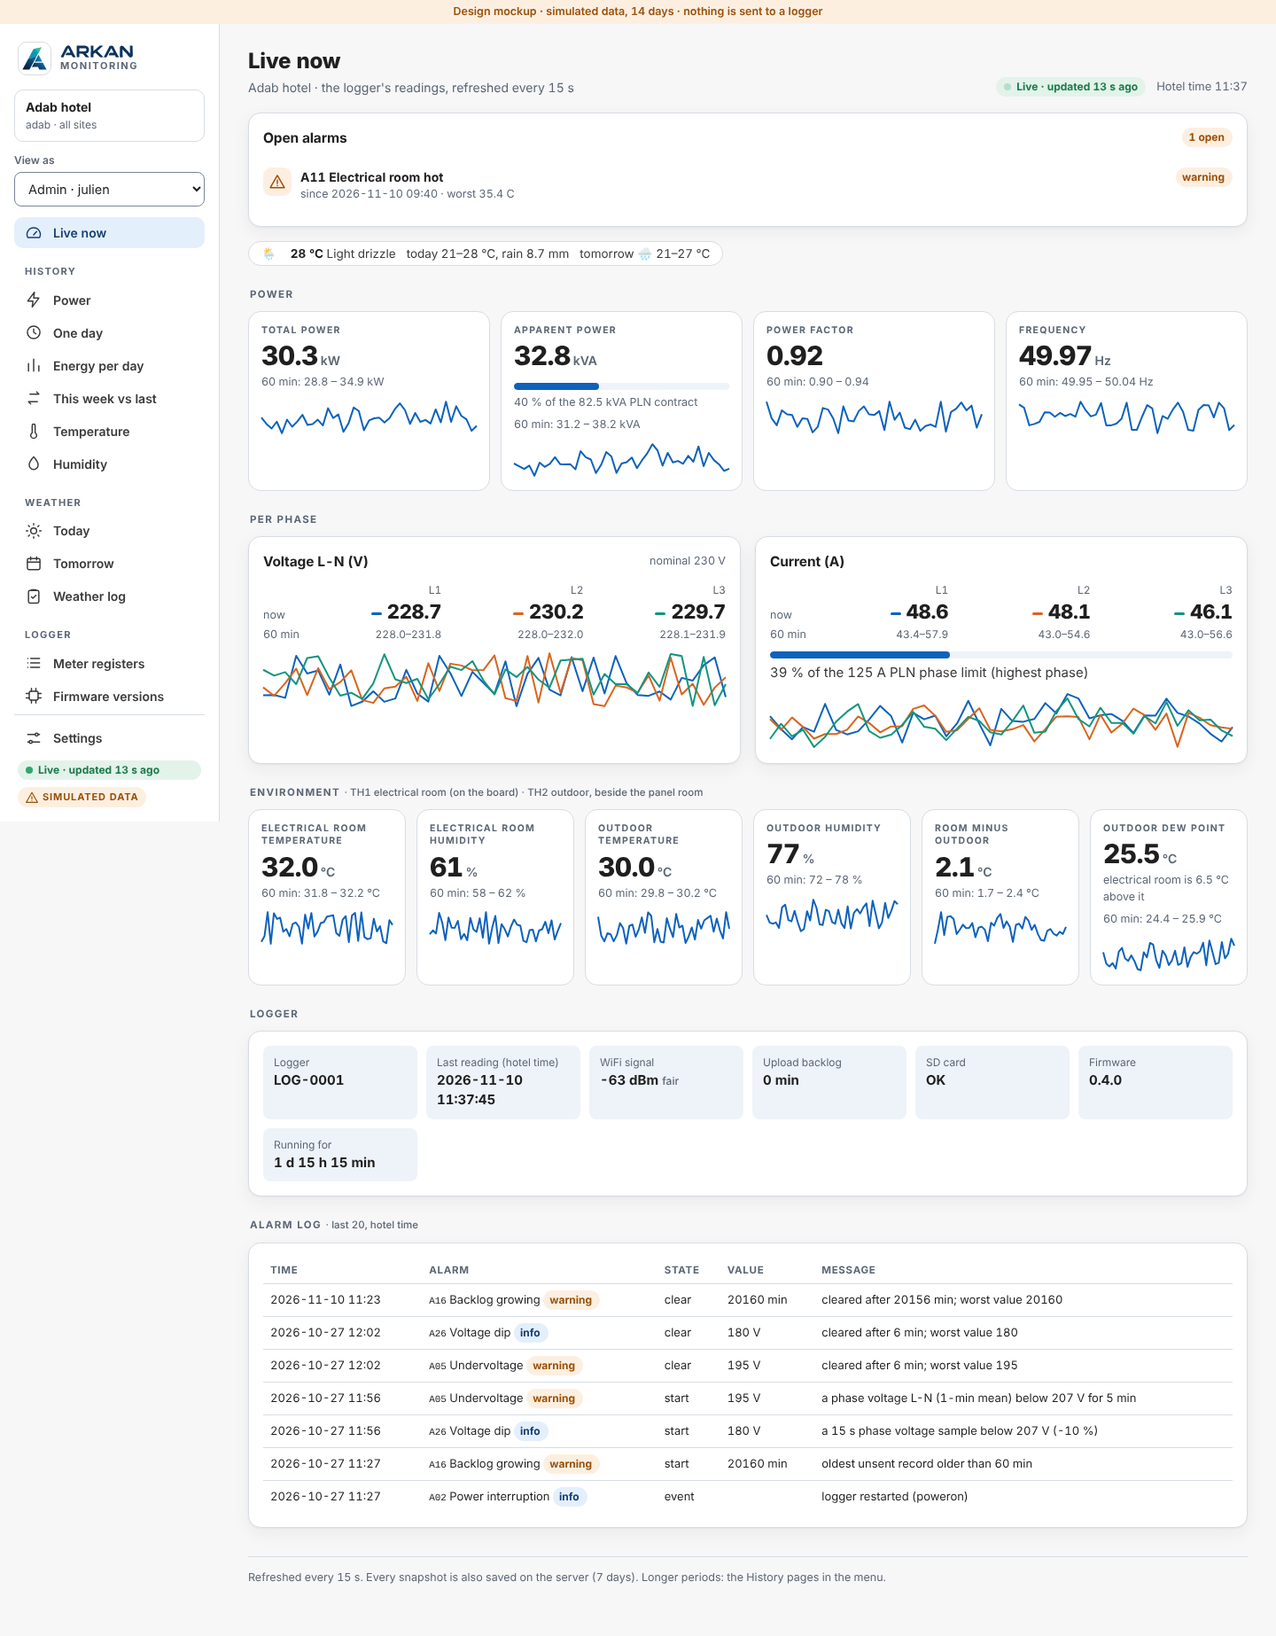
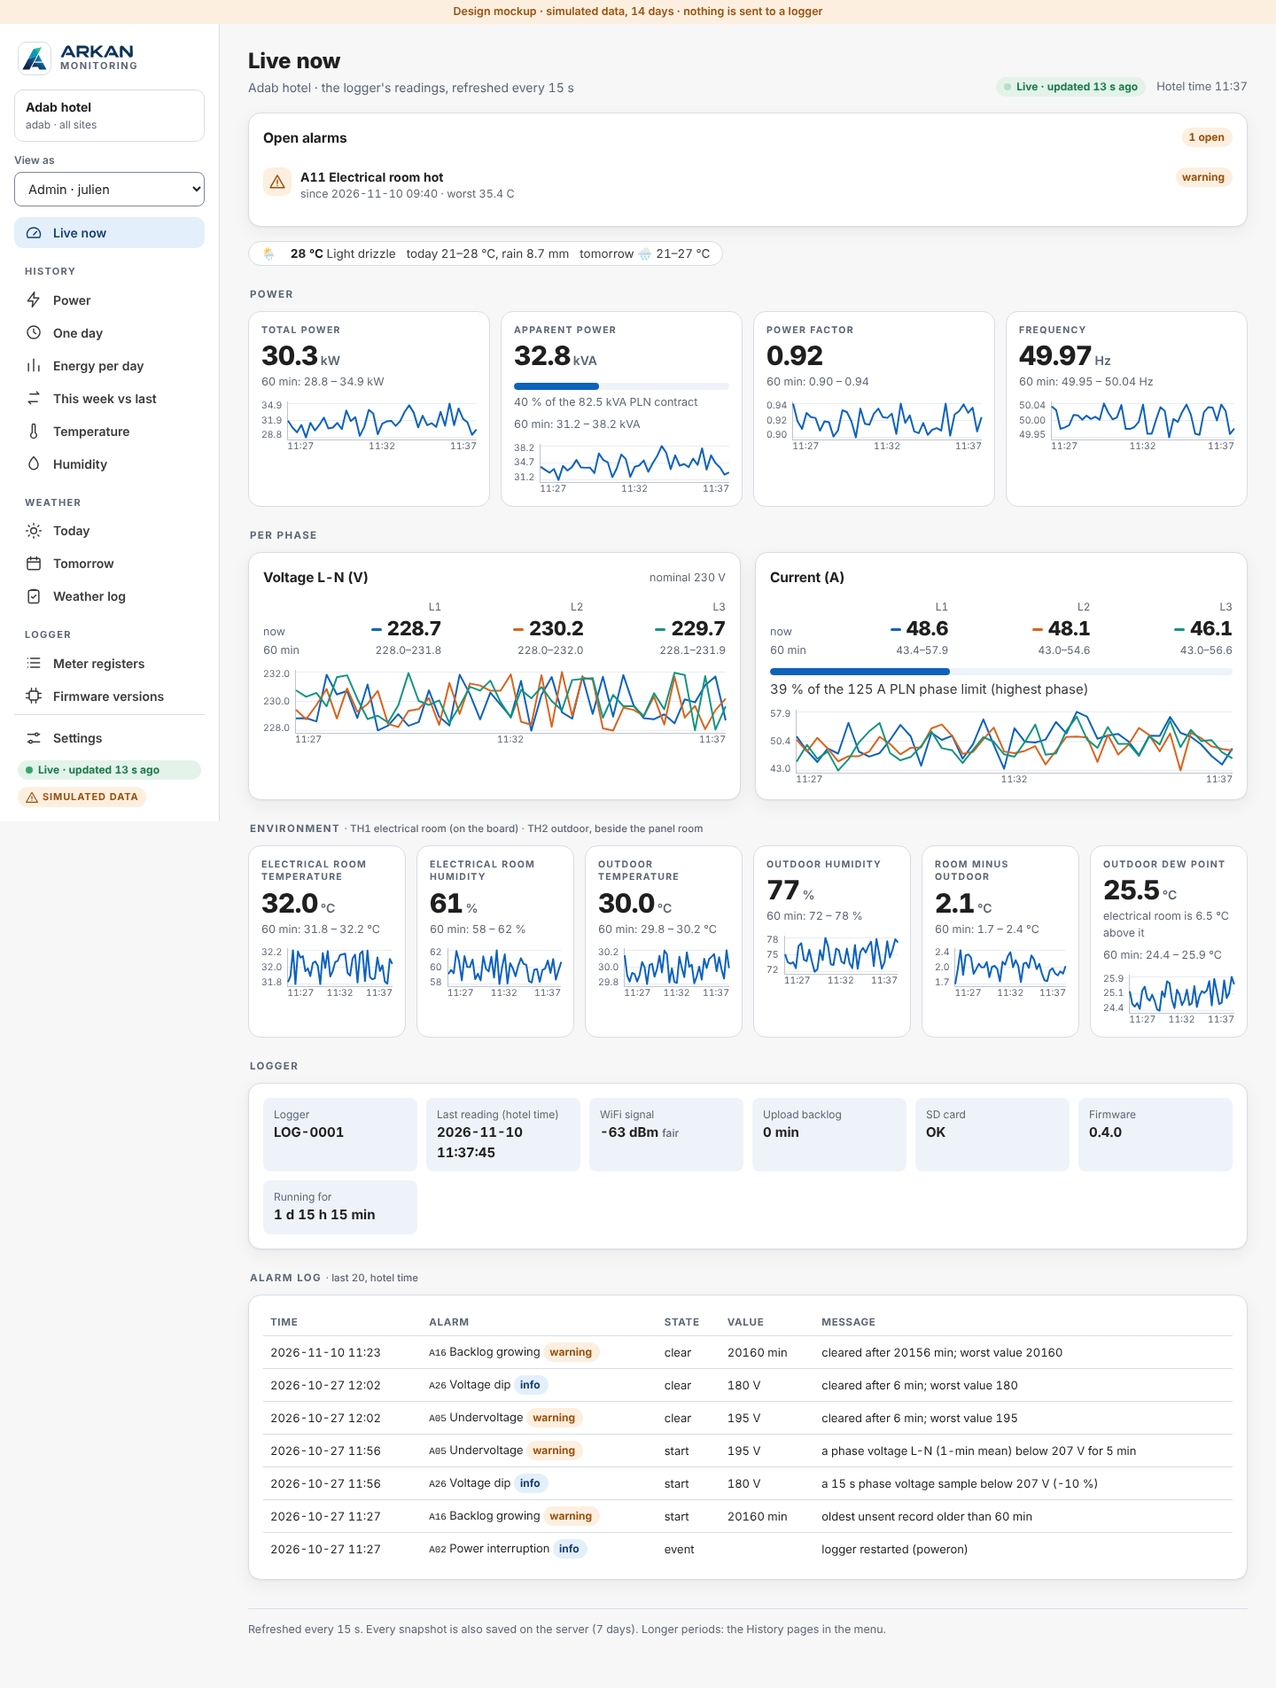
Mockup: axes and scales on every chart
Review comment: every chart shows its X and Y axis with a scale. The 60-minute
sparklines get a value scale and a time scale, the history charts get axis
lines and the name of the X axis, and the week comparison is a bar chart with
a kWh scale.

Claude-Session: https://claude.ai/code/session_01EskjDNhZYTSsc5KqC9Nz7o

diff --git a/docs/mockup/arkan/index.html b/docs/mockup/arkan/index.html
@@ -718,8 +718,15 @@ table.data th.cen,table.data td.cen{text-align:center}
 .live-pill.off i{background:var(--crit);animation:none}
 .live-pill.idle{color:var(--muted);background:var(--surface-2)}
 .live-pill.idle i{background:var(--muted);animation:none}
-.spark{display:block;width:100%;height:40px;margin-top:4px;overflow:visible}
-.spark.tall{height:64px;margin-top:10px}
+.spk{display:grid;grid-template-columns:auto minmax(0,1fr);gap:2px 6px;margin-top:6px}
+.spk.tall{margin-top:12px}
+.spy{display:flex;flex-direction:column;justify-content:space-between;text-align:right}
+.spx{grid-column:2;display:flex;justify-content:space-between}
+.spy,.spx{font-size:10.5px;line-height:1;color:var(--muted);white-space:nowrap}
+.spark{display:block;width:100%;height:44px;overflow:visible;border-left:1px solid var(--line-2);border-bottom:1px solid var(--line-2)}
+.spark.tall{height:72px}
+.spark .sg{stroke:var(--grid)}
+.chart .axl{stroke:var(--line-2);stroke-width:1}
 .spark path{fill:none;stroke-width:2;stroke-linejoin:round}
 .spark .xh{stroke:var(--control);stroke-dasharray:2 2}
 .phase{display:grid;grid-template-columns:auto 1fr 1fr 1fr;gap:2px 12px;align-items:baseline}
@@ -1230,10 +1237,13 @@ function spark(series, times, {tall = false, unitKey} = {}) {
     s.pts.forEach((v, i) => { if (v !== null) d += `${d && s.pts[i - 1] !== null ? 'L' : 'M'}${X(i).toFixed(2)},${Y(v).toFixed(2)}`; });
     return `<path d="${d}" style="stroke:${s.color}" vector-effect="non-scaling-stroke"/>`;
   }).join('');
-  const id = 'sp' + (++sparkId);
+  const id = 'sp' + (++sparkId), yk = unitKey || series[0].key, hm = i => esc(String(times[i] || '').slice(0, 5));
   SPARKS[id] = {series, times, unitKey};
-  return `<svg class="spark${tall ? ' tall' : ''}" id="${id}" viewBox="0 0 100 ${H}" preserveAspectRatio="none" role="img" aria-label="last 60 minutes">
-    ${paths}<line class="xh" y1="0" y2="${H}" vector-effect="non-scaling-stroke" visibility="hidden"/></svg>`;
+  const grid = [2, H / 2, H - 2].map(y => `<line class="sg" x1="0" x2="100" y1="${y}" y2="${y}" vector-effect="non-scaling-stroke"/>`).join('');
+  return `<div class="spk${tall ? ' tall' : ''}"><div class="spy" aria-hidden="true"><span>${fmt(yk, hi)}</span><span>${fmt(yk, (hi + lo) / 2)}</span><span>${fmt(yk, lo)}</span></div>
+    <svg class="spark${tall ? ' tall' : ''}" id="${id}" viewBox="0 0 100 ${H}" preserveAspectRatio="none" role="img" aria-label="last 60 minutes, ${fmt(yk, lo)} to ${fmt(yk, hi)} ${esc(unitOf(yk))}">
+    ${grid}${paths}<line class="xh" y1="0" y2="${H}" vector-effect="non-scaling-stroke" visibility="hidden"/></svg>
+    <div class="spx" aria-hidden="true"><span>${hm(0)}</span><span>${hm(Math.floor((n - 1) / 2))}</span><span>${hm(n - 1)}</span></div></div>`;
 }
 function showTip(ev, html) {
   const tip = el('tip'); tip.innerHTML = html; tip.style.display = 'block';
@@ -1428,7 +1438,10 @@ function nice(lo, hi, n = 5) {
   return t;
 }
 let CW = 900, CH = 320;
-const CM = {l: 50, r: 14, t: 10, b: 34};
+const CM = {l: 50, r: 14, t: 10, b: 48};
+// The two axis lines and the name of the x axis (the y axis carries its unit, turned, on the left)
+const axes = xName => `<line class="axl" x1="${CM.l}" x2="${CM.l}" y1="${CM.t}" y2="${CH - CM.b}"/><line class="axl" x1="${CM.l}" x2="${CW - CM.r}" y1="${CH - CM.b}" y2="${CH - CM.b}"/>` +
+  `<text class="ax" x="${(CM.l + CW - CM.r) / 2}" y="${CH - 4}" text-anchor="middle">${esc(xName)}</text>`;
 const sizeTo = box => { CW = Math.max(320, Math.round(box.clientWidth)); CH = CW < 600 ? 240 : 320; };
 
 // Line chart, one y axis; series = [{name, color, pts: [[ms, value], ...], width}]
@@ -1454,7 +1467,7 @@ function lineChart(box, series, {unit, yZero = false, gapMs = 2 * 36e5, digits =
   box.innerHTML = `${series.length > 1 ? `<div class="legend">${series.map(s => `<span><i style="background:${s.color}"></i>${esc(s.name)}</span>`).join('')}</div>` : ''}
     <svg viewBox="0 0 ${CW} ${CH}" role="img" aria-label="${esc(series.map(s => s.name).join(', '))}">
     ${g}<text class="ax" x="12" y="${(CH - CM.b + CM.t) / 2}" transform="rotate(-90 12 ${(CH - CM.b + CM.t) / 2})" text-anchor="middle">${esc(unit)}</text>
-    ${paths}<line class="xh" y1="${CM.t}" y2="${CH - CM.b}" visibility="hidden"/><g class="dots"></g>
+    ${axes(spanD > 1.5 ? 'Day (hotel time)' : 'Hour (hotel time)')}${paths}<line class="xh" y1="${CM.t}" y2="${CH - CM.b}" visibility="hidden"/><g class="dots"></g>
     <rect x="${CM.l}" y="${CM.t}" width="${CW - CM.l - CM.r}" height="${CH - CM.t - CM.b}" fill="transparent"/></svg>`;
   const svg = box.querySelector('svg'), xh = svg.querySelector('.xh'), dots = svg.querySelector('.dots');
   svg.addEventListener('mousemove', ev => {
@@ -1474,7 +1487,7 @@ function lineChart(box, series, {unit, yZero = false, gapMs = 2 * 36e5, digits =
 }
 
 // Bar chart, one bar per item: [{v, l1, l2, tip, light}]
-function barChart(box, bars, unit) {
+function barChart(box, bars, unit, {xName = 'Day', maxW = 1e9} = {}) {
   sizeTo(box);
   if (!bars.length) { box.innerHTML = '<div class="empty">No records for this period.</div>'; return; }
   const yt = nice(0, Math.max(...bars.map(b => b.v)) || 1), y1 = yt[yt.length - 1], bw = (CW - CM.l - CM.r) / bars.length;
@@ -1482,13 +1495,13 @@ function barChart(box, bars, unit) {
   let g = '', b = '';
   for (const v of yt) g += `<line class="grid" x1="${CM.l}" x2="${CW - CM.r}" y1="${Y(v)}" y2="${Y(v)}"/><text class="ax" x="${CM.l - 6}" y="${Y(v) + 4}" text-anchor="end">${v}</text>`;
   bars.forEach((d, i) => {
-    const x = CM.l + i * bw + 1, w = Math.max(2, bw - 2), y = Y(d.v), r = Math.max(0, Math.min(4, w / 2, CH - CM.b - y));
+    const w = Math.max(2, Math.min(bw - 2, maxW)), x = CM.l + i * bw + (bw - w) / 2, y = Y(d.v), r = Math.max(0, Math.min(4, w / 2, CH - CM.b - y));
     b += `<path d="M${x},${CH - CM.b}V${y + r}q0,${-r} ${r},${-r}h${w - 2 * r}q${r},0 ${r},${r}V${CH - CM.b}Z" style="fill:var(--s1)${d.light ? ';opacity:.45' : ''}"/>`;
     if (i % Math.ceil(26 / bw) === 0) b += `<text class="ax" x="${x + w / 2}" y="${CH - CM.b + 14}" text-anchor="middle">${esc(d.l1)}</text><text class="ax" x="${x + w / 2}" y="${CH - CM.b + 27}" text-anchor="middle">${esc(d.l2)}</text>`;
     b += `<rect data-i="${i}" x="${CM.l + i * bw}" y="${CM.t}" width="${bw}" height="${CH - CM.t - CM.b}" fill="transparent"/>`;
   });
-  box.innerHTML = `<svg viewBox="0 0 ${CW} ${CH + 6}" role="img" aria-label="${esc(unit)} per bar">${g}
-    <text class="ax" x="12" y="${CH / 2}" transform="rotate(-90 12 ${CH / 2})" text-anchor="middle">${esc(unit)}</text>${b}</svg>`;
+  box.innerHTML = `<svg viewBox="0 0 ${CW} ${CH}" role="img" aria-label="${esc(unit)} per bar">${g}
+    <text class="ax" x="12" y="${(CH - CM.b + CM.t) / 2}" transform="rotate(-90 12 ${(CH - CM.b + CM.t) / 2})" text-anchor="middle">${esc(unit)}</text>${axes(xName)}${b}</svg>`;
   const svg = box.querySelector('svg');
   svg.addEventListener('mousemove', ev => { const i = ev.target.dataset && ev.target.dataset.i; if (i === undefined) return hideTip(); showTip(ev, bars[i].tip); });
   svg.addEventListener('mouseleave', hideTip);
@@ -1572,14 +1585,14 @@ async function renderHistory() {
       : pct === null ? '' : Math.abs(pct) < 0.5 ? `<div class="verdict">About the same as last week (${pct >= 0 ? '+' : ''}${pct.toFixed(1)} %)</div>`
       : `<div class="verdict ${pct > 0 ? 'bad' : 'ok'}">${pct > 0 ? '▲' : '▼'} ${Math.abs(pct).toFixed(1)} % ${pct > 0 ? 'more' : 'less'} than last week</div>`;
     box.innerHTML = head('This week against last week', `Weeks start on Sunday 00:00. The complete hours of this week so far, against the same ${(el_ / 36e5).toFixed(0)} hours of last week.`) +
-      `<section class="card"><div class="cmp">
-        <div><div class="cv">${last.toFixed(0)} kWh</div><div class="cbar prev" style="height:${h(last)}px"></div><div><b class="ink">Last week</b><br><small>${fdate(lw0)} – ${fdate(lw0 + el_)} ${fhm(lw0 + el_)}</small></div></div>
-        <div><div class="cv">${cur.toFixed(0)} kWh</div><div class="cbar" style="height:${h(cur)}px"></div><div><b class="ink">This week so far</b><br><small>${fdate(w0)} – ${fdate(w0 + el_)} ${fhm(w0 + el_)}</small></div></div>
-       </div>${verdict}</section>` + sec('Day by day') +
+      `<section class="card"><div class="chart" id="ch"></div>${verdict}</section>` + sec('Day by day') +
       tableCard(`<tr><th>Day</th><th>Last week</th><th>This week</th><th>Change</th></tr>${perDay.map(r => {
          const ch = r.b === null || !r.a ? '' : ((r.b - r.a) / r.a * 100);
          return `<tr><td>${DAYS[r.i]}</td><td>${r.a ? r.a.toFixed(0) + ' kWh' : '–'}</td><td>${r.b === null ? '–' : r.b.toFixed(0) + ' kWh' + (w0 + (r.i + 1) * 864e5 > now ? ' so far' : '')}</td>
            <td>${ch === '' || w0 + (r.i + 1) * 864e5 > now ? '' : `<span class="${ch > 0.5 ? 'bad' : ch < -0.5 ? 'ok' : ''}">${ch >= 0 ? '+' : ''}${ch.toFixed(1)} %</span>`}</td></tr>`; }).join('')}`);
+    const rng = a => `${fdate(a)} – ${fdate(a + el_)} ${fhm(a + el_)}`;
+    barChart(el('ch'), [{v: last, light: true, l1: 'Last week: ' + last.toFixed(0) + ' kWh', l2: rng(lw0), tip: `<b>Last week</b>${last.toFixed(0)} kWh<br>${rng(lw0)}`},
+      {v: cur, l1: 'This week so far: ' + cur.toFixed(0) + ' kWh', l2: rng(w0), tip: `<b>This week so far</b>${cur.toFixed(0)} kWh<br>${rng(w0)}`}], 'kWh', {xName: 'Same hours of each week', maxW: 150});
   } else if (view === 'temperature' || view === 'humidity') {
     const j = await hourly(span), q = view === 'temperature' ? 't' : 'rh', unit = q === 't' ? '°C' : '% RH';
     const ids = [...new Set(j.hours.flatMap(r => Object.keys(r)).filter(k => /^TH\d+_/.test(k)).map(k => k.split('_')[0]))].sort();
@@ -1653,7 +1666,7 @@ function rainBars(box, rows, nowT) {
   const hr = nowT.slice(0, 13) + ':00';
   barChart(box, rows.map(r => ({v: r.precip_mm ?? 0, light: r.t < hr, l1: r.t.slice(11, 13), l2: r.precip_prob_pct !== null && r.precip_prob_pct !== undefined ? r.precip_prob_pct + '%' : '',
     tip: `<b>${r.t.slice(11)}–${String(+r.t.slice(11, 13) + 1).padStart(2, '0')}:00</b>${wxIcon(r.code, r.is_day)}${esc(r.condition)}<br>${f1(r.precip_mm, 1)} mm` +
-      (r.precip_prob_pct !== null && r.precip_prob_pct !== undefined ? `, chance ${r.precip_prob_pct} %` : '')})), 'mm');
+      (r.precip_prob_pct !== null && r.precip_prob_pct !== undefined ? `, chance ${r.precip_prob_pct} %` : '')})), 'mm', {xName: 'Hour (hotel time), chance of rain under it'});
 }
 async function wxStrip() {   // one line on "Live now"
   try {

diff --git a/docs/mockup/arkan/page.html b/docs/mockup/arkan/page.html
@@ -41,8 +41,15 @@
 .live-pill.off i{background:var(--crit);animation:none}
 .live-pill.idle{color:var(--muted);background:var(--surface-2)}
 .live-pill.idle i{background:var(--muted);animation:none}
-.spark{display:block;width:100%;height:40px;margin-top:4px;overflow:visible}
-.spark.tall{height:64px;margin-top:10px}
+.spk{display:grid;grid-template-columns:auto minmax(0,1fr);gap:2px 6px;margin-top:6px}
+.spk.tall{margin-top:12px}
+.spy{display:flex;flex-direction:column;justify-content:space-between;text-align:right}
+.spx{grid-column:2;display:flex;justify-content:space-between}
+.spy,.spx{font-size:10.5px;line-height:1;color:var(--muted);white-space:nowrap}
+.spark{display:block;width:100%;height:44px;overflow:visible;border-left:1px solid var(--line-2);border-bottom:1px solid var(--line-2)}
+.spark.tall{height:72px}
+.spark .sg{stroke:var(--grid)}
+.chart .axl{stroke:var(--line-2);stroke-width:1}
 .spark path{fill:none;stroke-width:2;stroke-linejoin:round}
 .spark .xh{stroke:var(--control);stroke-dasharray:2 2}
 .phase{display:grid;grid-template-columns:auto 1fr 1fr 1fr;gap:2px 12px;align-items:baseline}
@@ -335,10 +342,13 @@ function spark(series, times, {tall = false, unitKey} = {}) {
     s.pts.forEach((v, i) => { if (v !== null) d += `${d && s.pts[i - 1] !== null ? 'L' : 'M'}${X(i).toFixed(2)},${Y(v).toFixed(2)}`; });
     return `<path d="${d}" style="stroke:${s.color}" vector-effect="non-scaling-stroke"/>`;
   }).join('');
-  const id = 'sp' + (++sparkId);
+  const id = 'sp' + (++sparkId), yk = unitKey || series[0].key, hm = i => esc(String(times[i] || '').slice(0, 5));
   SPARKS[id] = {series, times, unitKey};
-  return `<svg class="spark${tall ? ' tall' : ''}" id="${id}" viewBox="0 0 100 ${H}" preserveAspectRatio="none" role="img" aria-label="last 60 minutes">
-    ${paths}<line class="xh" y1="0" y2="${H}" vector-effect="non-scaling-stroke" visibility="hidden"/></svg>`;
+  const grid = [2, H / 2, H - 2].map(y => `<line class="sg" x1="0" x2="100" y1="${y}" y2="${y}" vector-effect="non-scaling-stroke"/>`).join('');
+  return `<div class="spk${tall ? ' tall' : ''}"><div class="spy" aria-hidden="true"><span>${fmt(yk, hi)}</span><span>${fmt(yk, (hi + lo) / 2)}</span><span>${fmt(yk, lo)}</span></div>
+    <svg class="spark${tall ? ' tall' : ''}" id="${id}" viewBox="0 0 100 ${H}" preserveAspectRatio="none" role="img" aria-label="last 60 minutes, ${fmt(yk, lo)} to ${fmt(yk, hi)} ${esc(unitOf(yk))}">
+    ${grid}${paths}<line class="xh" y1="0" y2="${H}" vector-effect="non-scaling-stroke" visibility="hidden"/></svg>
+    <div class="spx" aria-hidden="true"><span>${hm(0)}</span><span>${hm(Math.floor((n - 1) / 2))}</span><span>${hm(n - 1)}</span></div></div>`;
 }
 function showTip(ev, html) {
   const tip = el('tip'); tip.innerHTML = html; tip.style.display = 'block';
@@ -533,7 +543,10 @@ function nice(lo, hi, n = 5) {
   return t;
 }
 let CW = 900, CH = 320;
-const CM = {l: 50, r: 14, t: 10, b: 34};
+const CM = {l: 50, r: 14, t: 10, b: 48};
+// The two axis lines and the name of the x axis (the y axis carries its unit, turned, on the left)
+const axes = xName => `<line class="axl" x1="${CM.l}" x2="${CM.l}" y1="${CM.t}" y2="${CH - CM.b}"/><line class="axl" x1="${CM.l}" x2="${CW - CM.r}" y1="${CH - CM.b}" y2="${CH - CM.b}"/>` +
+  `<text class="ax" x="${(CM.l + CW - CM.r) / 2}" y="${CH - 4}" text-anchor="middle">${esc(xName)}</text>`;
 const sizeTo = box => { CW = Math.max(320, Math.round(box.clientWidth)); CH = CW < 600 ? 240 : 320; };
 
 // Line chart, one y axis; series = [{name, color, pts: [[ms, value], ...], width}]
@@ -559,7 +572,7 @@ function lineChart(box, series, {unit, yZero = false, gapMs = 2 * 36e5, digits =
   box.innerHTML = `${series.length > 1 ? `<div class="legend">${series.map(s => `<span><i style="background:${s.color}"></i>${esc(s.name)}</span>`).join('')}</div>` : ''}
     <svg viewBox="0 0 ${CW} ${CH}" role="img" aria-label="${esc(series.map(s => s.name).join(', '))}">
     ${g}<text class="ax" x="12" y="${(CH - CM.b + CM.t) / 2}" transform="rotate(-90 12 ${(CH - CM.b + CM.t) / 2})" text-anchor="middle">${esc(unit)}</text>
-    ${paths}<line class="xh" y1="${CM.t}" y2="${CH - CM.b}" visibility="hidden"/><g class="dots"></g>
+    ${axes(spanD > 1.5 ? 'Day (hotel time)' : 'Hour (hotel time)')}${paths}<line class="xh" y1="${CM.t}" y2="${CH - CM.b}" visibility="hidden"/><g class="dots"></g>
     <rect x="${CM.l}" y="${CM.t}" width="${CW - CM.l - CM.r}" height="${CH - CM.t - CM.b}" fill="transparent"/></svg>`;
   const svg = box.querySelector('svg'), xh = svg.querySelector('.xh'), dots = svg.querySelector('.dots');
   svg.addEventListener('mousemove', ev => {
@@ -579,7 +592,7 @@ function lineChart(box, series, {unit, yZero = false, gapMs = 2 * 36e5, digits =
 }
 
 // Bar chart, one bar per item: [{v, l1, l2, tip, light}]
-function barChart(box, bars, unit) {
+function barChart(box, bars, unit, {xName = 'Day', maxW = 1e9} = {}) {
   sizeTo(box);
   if (!bars.length) { box.innerHTML = '<div class="empty">No records for this period.</div>'; return; }
   const yt = nice(0, Math.max(...bars.map(b => b.v)) || 1), y1 = yt[yt.length - 1], bw = (CW - CM.l - CM.r) / bars.length;
@@ -587,13 +600,13 @@ function barChart(box, bars, unit) {
   let g = '', b = '';
   for (const v of yt) g += `<line class="grid" x1="${CM.l}" x2="${CW - CM.r}" y1="${Y(v)}" y2="${Y(v)}"/><text class="ax" x="${CM.l - 6}" y="${Y(v) + 4}" text-anchor="end">${v}</text>`;
   bars.forEach((d, i) => {
-    const x = CM.l + i * bw + 1, w = Math.max(2, bw - 2), y = Y(d.v), r = Math.max(0, Math.min(4, w / 2, CH - CM.b - y));
+    const w = Math.max(2, Math.min(bw - 2, maxW)), x = CM.l + i * bw + (bw - w) / 2, y = Y(d.v), r = Math.max(0, Math.min(4, w / 2, CH - CM.b - y));
     b += `<path d="M${x},${CH - CM.b}V${y + r}q0,${-r} ${r},${-r}h${w - 2 * r}q${r},0 ${r},${r}V${CH - CM.b}Z" style="fill:var(--s1)${d.light ? ';opacity:.45' : ''}"/>`;
     if (i % Math.ceil(26 / bw) === 0) b += `<text class="ax" x="${x + w / 2}" y="${CH - CM.b + 14}" text-anchor="middle">${esc(d.l1)}</text><text class="ax" x="${x + w / 2}" y="${CH - CM.b + 27}" text-anchor="middle">${esc(d.l2)}</text>`;
     b += `<rect data-i="${i}" x="${CM.l + i * bw}" y="${CM.t}" width="${bw}" height="${CH - CM.t - CM.b}" fill="transparent"/>`;
   });
-  box.innerHTML = `<svg viewBox="0 0 ${CW} ${CH + 6}" role="img" aria-label="${esc(unit)} per bar">${g}
-    <text class="ax" x="12" y="${CH / 2}" transform="rotate(-90 12 ${CH / 2})" text-anchor="middle">${esc(unit)}</text>${b}</svg>`;
+  box.innerHTML = `<svg viewBox="0 0 ${CW} ${CH}" role="img" aria-label="${esc(unit)} per bar">${g}
+    <text class="ax" x="12" y="${(CH - CM.b + CM.t) / 2}" transform="rotate(-90 12 ${(CH - CM.b + CM.t) / 2})" text-anchor="middle">${esc(unit)}</text>${axes(xName)}${b}</svg>`;
   const svg = box.querySelector('svg');
   svg.addEventListener('mousemove', ev => { const i = ev.target.dataset && ev.target.dataset.i; if (i === undefined) return hideTip(); showTip(ev, bars[i].tip); });
   svg.addEventListener('mouseleave', hideTip);
@@ -677,14 +690,14 @@ async function renderHistory() {
       : pct === null ? '' : Math.abs(pct) < 0.5 ? `<div class="verdict">About the same as last week (${pct >= 0 ? '+' : ''}${pct.toFixed(1)} %)</div>`
       : `<div class="verdict ${pct > 0 ? 'bad' : 'ok'}">${pct > 0 ? '▲' : '▼'} ${Math.abs(pct).toFixed(1)} % ${pct > 0 ? 'more' : 'less'} than last week</div>`;
     box.innerHTML = head('This week against last week', `Weeks start on Sunday 00:00. The complete hours of this week so far, against the same ${(el_ / 36e5).toFixed(0)} hours of last week.`) +
-      `<section class="card"><div class="cmp">
-        <div><div class="cv">${last.toFixed(0)} kWh</div><div class="cbar prev" style="height:${h(last)}px"></div><div><b class="ink">Last week</b><br><small>${fdate(lw0)} – ${fdate(lw0 + el_)} ${fhm(lw0 + el_)}</small></div></div>
-        <div><div class="cv">${cur.toFixed(0)} kWh</div><div class="cbar" style="height:${h(cur)}px"></div><div><b class="ink">This week so far</b><br><small>${fdate(w0)} – ${fdate(w0 + el_)} ${fhm(w0 + el_)}</small></div></div>
-       </div>${verdict}</section>` + sec('Day by day') +
+      `<section class="card"><div class="chart" id="ch"></div>${verdict}</section>` + sec('Day by day') +
       tableCard(`<tr><th>Day</th><th>Last week</th><th>This week</th><th>Change</th></tr>${perDay.map(r => {
          const ch = r.b === null || !r.a ? '' : ((r.b - r.a) / r.a * 100);
          return `<tr><td>${DAYS[r.i]}</td><td>${r.a ? r.a.toFixed(0) + ' kWh' : '–'}</td><td>${r.b === null ? '–' : r.b.toFixed(0) + ' kWh' + (w0 + (r.i + 1) * 864e5 > now ? ' so far' : '')}</td>
            <td>${ch === '' || w0 + (r.i + 1) * 864e5 > now ? '' : `<span class="${ch > 0.5 ? 'bad' : ch < -0.5 ? 'ok' : ''}">${ch >= 0 ? '+' : ''}${ch.toFixed(1)} %</span>`}</td></tr>`; }).join('')}`);
+    const rng = a => `${fdate(a)} – ${fdate(a + el_)} ${fhm(a + el_)}`;
+    barChart(el('ch'), [{v: last, light: true, l1: 'Last week: ' + last.toFixed(0) + ' kWh', l2: rng(lw0), tip: `<b>Last week</b>${last.toFixed(0)} kWh<br>${rng(lw0)}`},
+      {v: cur, l1: 'This week so far: ' + cur.toFixed(0) + ' kWh', l2: rng(w0), tip: `<b>This week so far</b>${cur.toFixed(0)} kWh<br>${rng(w0)}`}], 'kWh', {xName: 'Same hours of each week', maxW: 150});
   } else if (view === 'temperature' || view === 'humidity') {
     const j = await hourly(span), q = view === 'temperature' ? 't' : 'rh', unit = q === 't' ? '°C' : '% RH';
     const ids = [...new Set(j.hours.flatMap(r => Object.keys(r)).filter(k => /^TH\d+_/.test(k)).map(k => k.split('_')[0]))].sort();
@@ -758,7 +771,7 @@ function rainBars(box, rows, nowT) {
   const hr = nowT.slice(0, 13) + ':00';
   barChart(box, rows.map(r => ({v: r.precip_mm ?? 0, light: r.t < hr, l1: r.t.slice(11, 13), l2: r.precip_prob_pct !== null && r.precip_prob_pct !== undefined ? r.precip_prob_pct + '%' : '',
     tip: `<b>${r.t.slice(11)}–${String(+r.t.slice(11, 13) + 1).padStart(2, '0')}:00</b>${wxIcon(r.code, r.is_day)}${esc(r.condition)}<br>${f1(r.precip_mm, 1)} mm` +
-      (r.precip_prob_pct !== null && r.precip_prob_pct !== undefined ? `, chance ${r.precip_prob_pct} %` : '')})), 'mm');
+      (r.precip_prob_pct !== null && r.precip_prob_pct !== undefined ? `, chance ${r.precip_prob_pct} %` : '')})), 'mm', {xName: 'Hour (hotel time), chance of rain under it'});
 }
 async function wxStrip() {   // one line on "Live now"
   try {
